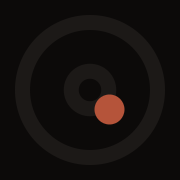
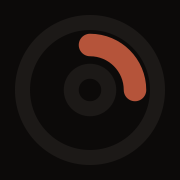
Theme: mark is platter, hub and rust track

Changed region(s): [[0.4167, 0.1667, 0.8333, 0.5833], [0.5, 0.5, 0.6944, 0.6944]]

diff --git a/app/components/TetanusMark.test.ts b/app/components/TetanusMark.test.ts
@@ -4,24 +4,24 @@ import { describe, expect, it } from "vitest";
 import TetanusMark from "./TetanusMark.vue";
 
 describe("TetanusMark", () => {
-  it("renders the arm by default", async () => {
+  it("renders platter, hub and track", async () => {
     const component = await mountSuspended(TetanusMark);
 
+    expect(component.findAll("circle")).toHaveLength(2);
     expect(component.find("path").exists()).toBe(true);
   });
 
-  it("omits the arm when arm is false", async () => {
-    const component = await mountSuspended(TetanusMark, {
-      props: { arm: false },
-    });
-
-    expect(component.find("path").exists()).toBe(false);
-  });
-
-  it("gives the head the primary fill class", async () => {
+  it("gives the track the primary stroke class", async () => {
     const component = await mountSuspended(TetanusMark);
 
-    const head = component.findAll("circle").at(-1);
-    expect(head?.classes()).toContain("fill-primary");
+    expect(component.find("path").classes()).toContain("stroke-primary");
+  });
+
+  it("sizes the svg from the size prop", async () => {
+    const component = await mountSuspended(TetanusMark, {
+      props: { size: 48 },
+    });
+
+    expect(component.find("svg").attributes("width")).toBe("48");
   });
 });

diff --git a/app/components/TetanusMark.vue b/app/components/TetanusMark.vue
@@ -1,7 +1,6 @@
 <script setup lang="ts">
-withDefaults(defineProps<{ size?: number; arm?: boolean }>(), {
+withDefaults(defineProps<{ size?: number }>(), {
   size: 24,
-  arm: true,
 });
 </script>
 
@@ -19,13 +18,10 @@ withDefaults(defineProps<{ size?: number; arm?: boolean }>(), {
   >
     <circle cx="12" cy="12" r="9" />
     <circle cx="12" cy="12" r="2.5" />
-    <path v-if="arm" d="M20.5 20.5 15 15" />
-    <circle
-      cx="14.6"
-      cy="14.6"
-      :r="arm ? 1.6 : 2"
-      class="fill-primary"
-      stroke="none"
+    <path
+      d="M12 6a6 6 0 0 1 6 6"
+      class="stroke-primary"
+      stroke-width="2.5"
     />
   </svg>
 </template>

diff --git a/docs/009-Apply-tetanus-theme-and-mark.md b/docs/009-Apply-tetanus-theme-and-mark.md
@@ -38,11 +38,9 @@ scaffold: palettes, Nuxt UI colour aliases, the mark, favicons.
   head, buttons, focus rings) stay 500 as specced. Not yet applied anywhere — no
   dark-mode text currently uses `text-primary`; flagged here for whoever adds the
   first one.
-- **Mark head placement is provisional.** The head circle at `(14.6, 14.6)` visually
-  collides with the hub (`r 2.5` at the centre) at 24px — the person owning the doc is
-  choosing a new variant. `TetanusMark.vue` and `favicon.svg` were built exactly to
-  the geometry in 008 as it stands; the geometry is expected to change in a follow-up
-  once a replacement is decided.
+- **Mark is option C from the mark options page:** platter, hub and a rust quarter-arc
+  track at mid-radius. The actuator-arm head from the first draft of 008 collided with
+  the hub at 24 px and was replaced before merge; no `arm` prop survives.
 - **Favicon renderer: `rsvg-convert`** (present on this machine). `inkscape` and
   ImageMagick `magick`/`convert` were also available but not needed. `sharp` is not a
   project dependency and was not installed. `apple-touch-icon.png` uses `rsvg-convert
